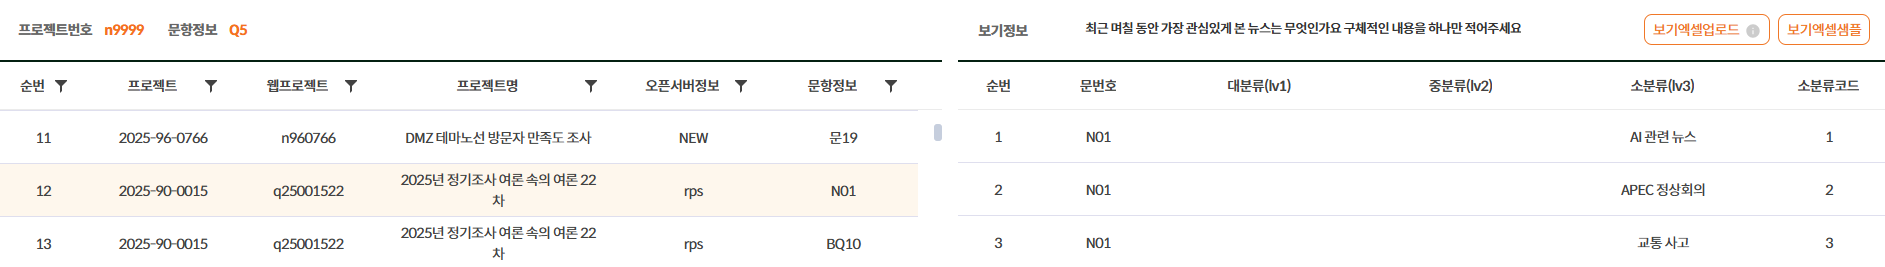
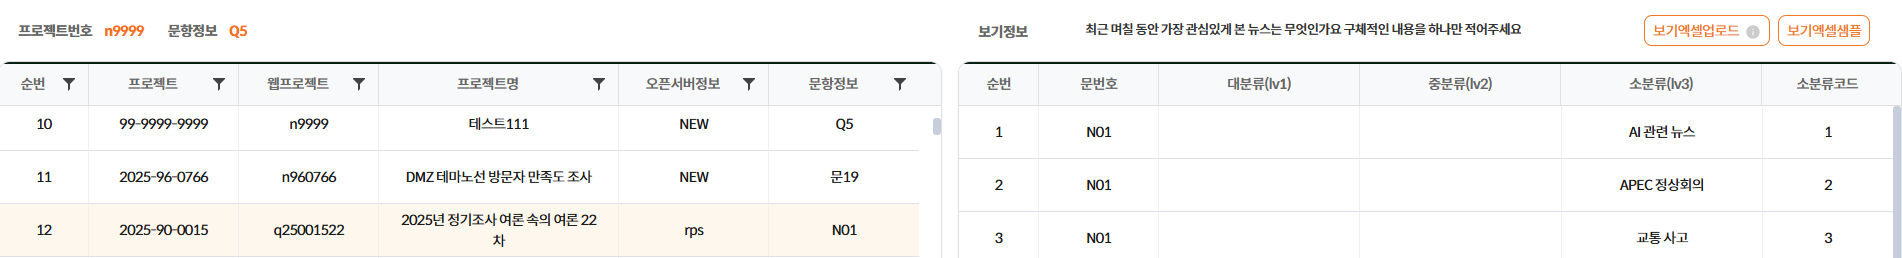
[fix] 보기불러오기 그리드 세로줄 추가 및 보기등록 버튼 사이즈 수정, 매뉴얼 사진 재수정

diff --git a/src/services/aiOpenAnalysis/app/optionSetting/OptionSettingExload.jsx b/src/services/aiOpenAnalysis/app/optionSetting/OptionSettingExload.jsx
@@ -404,7 +404,7 @@ const OptionSettingExload = () => {
                     </article>
 
                     <div className="cmn_gird_wrap">
-                        <div id="grid_left" className="cmn_grid">
+                        <div id="grid_left" className="cmn_grid singlehead">
                             <KendoGrid
                                 parentProps={{
                                     data: dataState?.data,
@@ -437,6 +437,7 @@ const OptionSettingExload = () => {
                             </KendoGrid>
                         </div>
                     </div>
+                    <div style={{ borderTop: "1px solid #e0e0e0" }}></div>
                 </div>
             );
         }, [leftFilter, leftColumns, leftSort]
@@ -498,7 +499,7 @@ const OptionSettingExload = () => {
                 </article>
 
                 <div className="cmn_gird_wrap">
-                    <div id="grid_right" className="cmn_grid">
+                    <div id="grid_right" className="cmn_grid singlehead">
                         <KendoGrid
                             parentProps={{
                                 data: rightRows,
@@ -522,11 +523,23 @@ const OptionSettingExload = () => {
                     </div>
                     {/* 보기 등록 버튼 */}
                     {rightRows.length !== 0 &&
-                        <div style={{ display: "flex", justifyContent: "flex-end", padding: "16px 8px" }}>
+                        <div style={{
+                            display: "flex",
+                            justifyContent: "center",
+                            padding: "20px 16px",
+                            borderTop: "1px solid #e0e0e0",
+                            // background: "#fafafa"
+                        }}>
                             <Button
                                 className="btnTxt"
                                 type="button"
                                 onClick={handleRegisterClick}
+                                style={{
+                                    minWidth: "140px",
+                                    padding: "10px 24px",
+                                    fontSize: "15px",
+                                    fontWeight: "600"
+                                }}
                             >
                                 보기등록
                             </Button>
